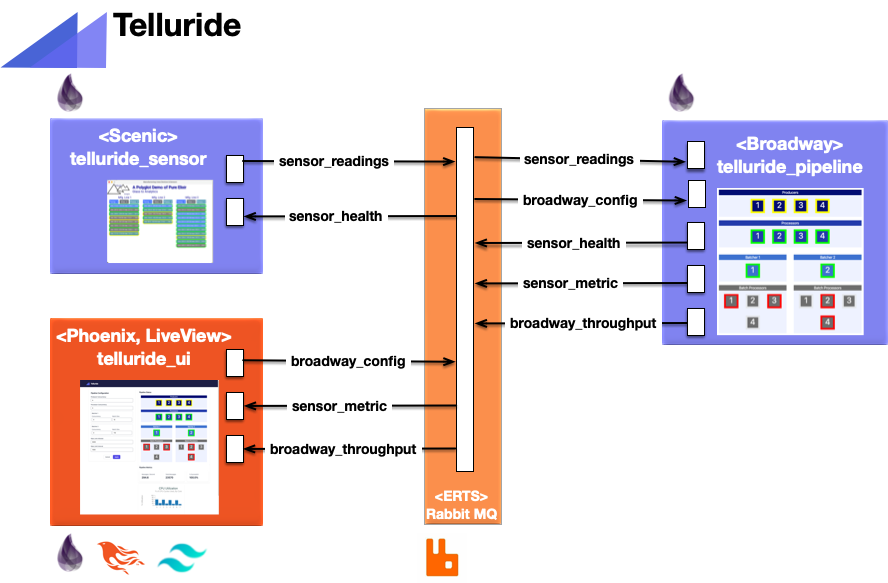
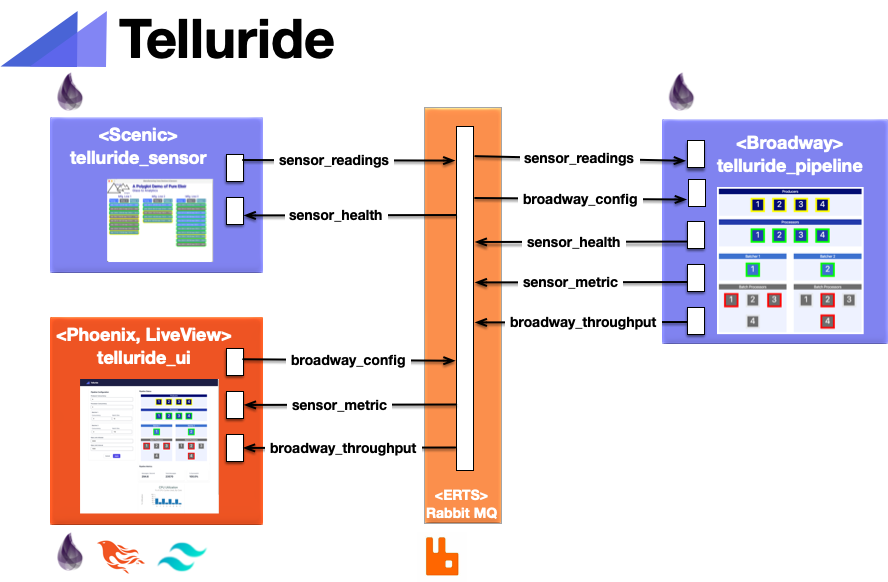
Replaced telluride image; added text to describe the image.

diff --git a/README.md b/README.md
@@ -1,6 +1,12 @@
-### Alan Strait
+## Alan Strait
 
-![Telluride](images/telluride_oss_2.png)
+ERTS / Erlang / OTP / Elixir is a destination technology.
+
+Telluride is a set of three public repositories that collaborate through Rabbit MQ to exercise and observe Broadway, an Elixir data ingestion and data processing pipeline library.  The below image depicts how messages flow between these three repositories.
+
+The purpose of Telluride is to have an example that visualizes the results of batch processing sensor data as well as the effect of changing configuration on identifying bottlenecks and monitoring throughput.
+
+![Telluride](images/telluride_oss.png)
 
 <!--
 **alanStrait/alanStrait** is a ✨ _special_ ✨ repository because its `README.md` (this file) appears on your GitHub profile.
